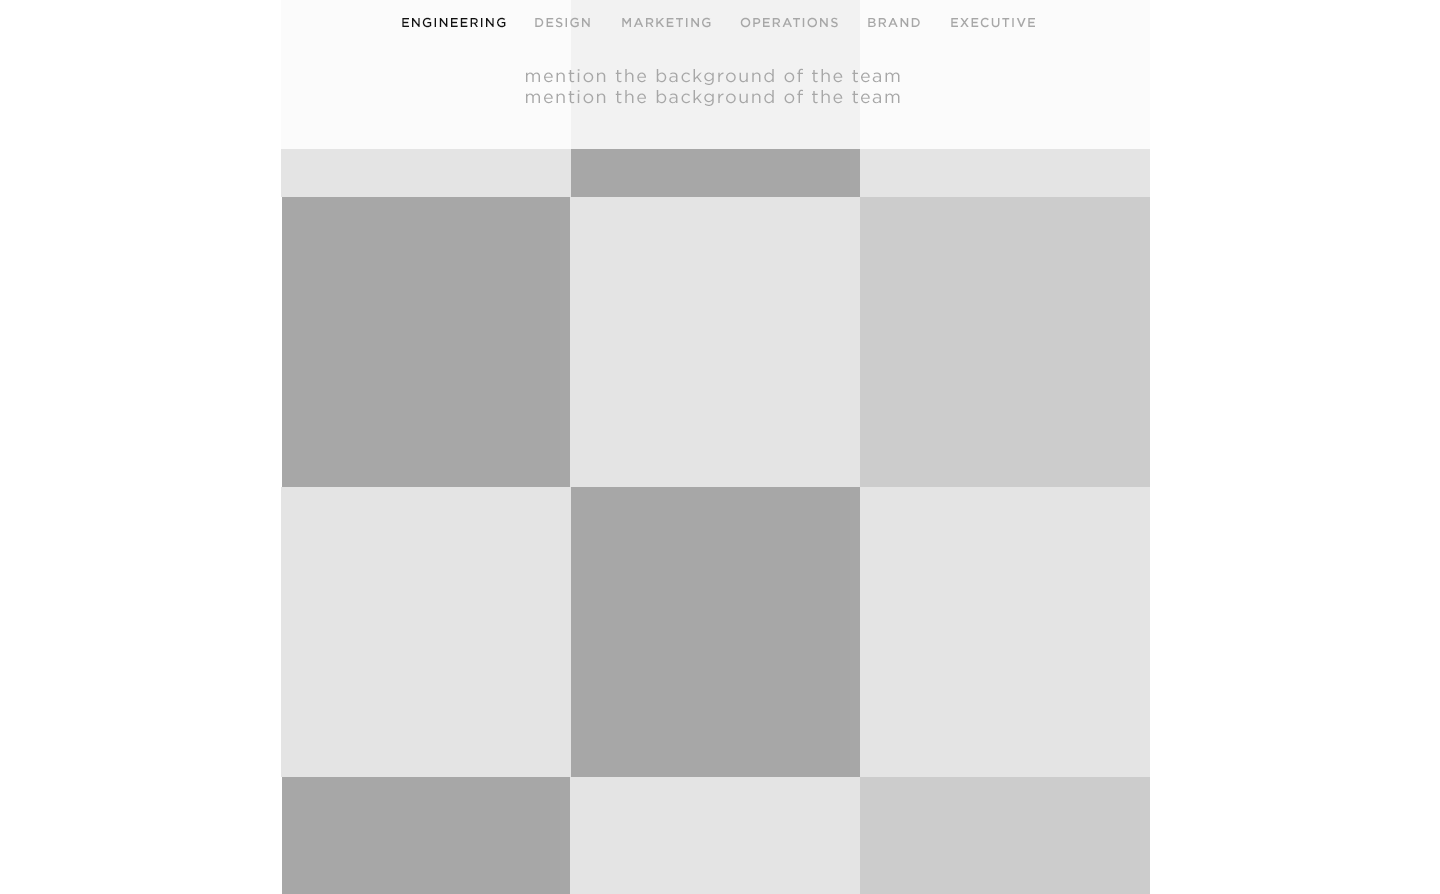
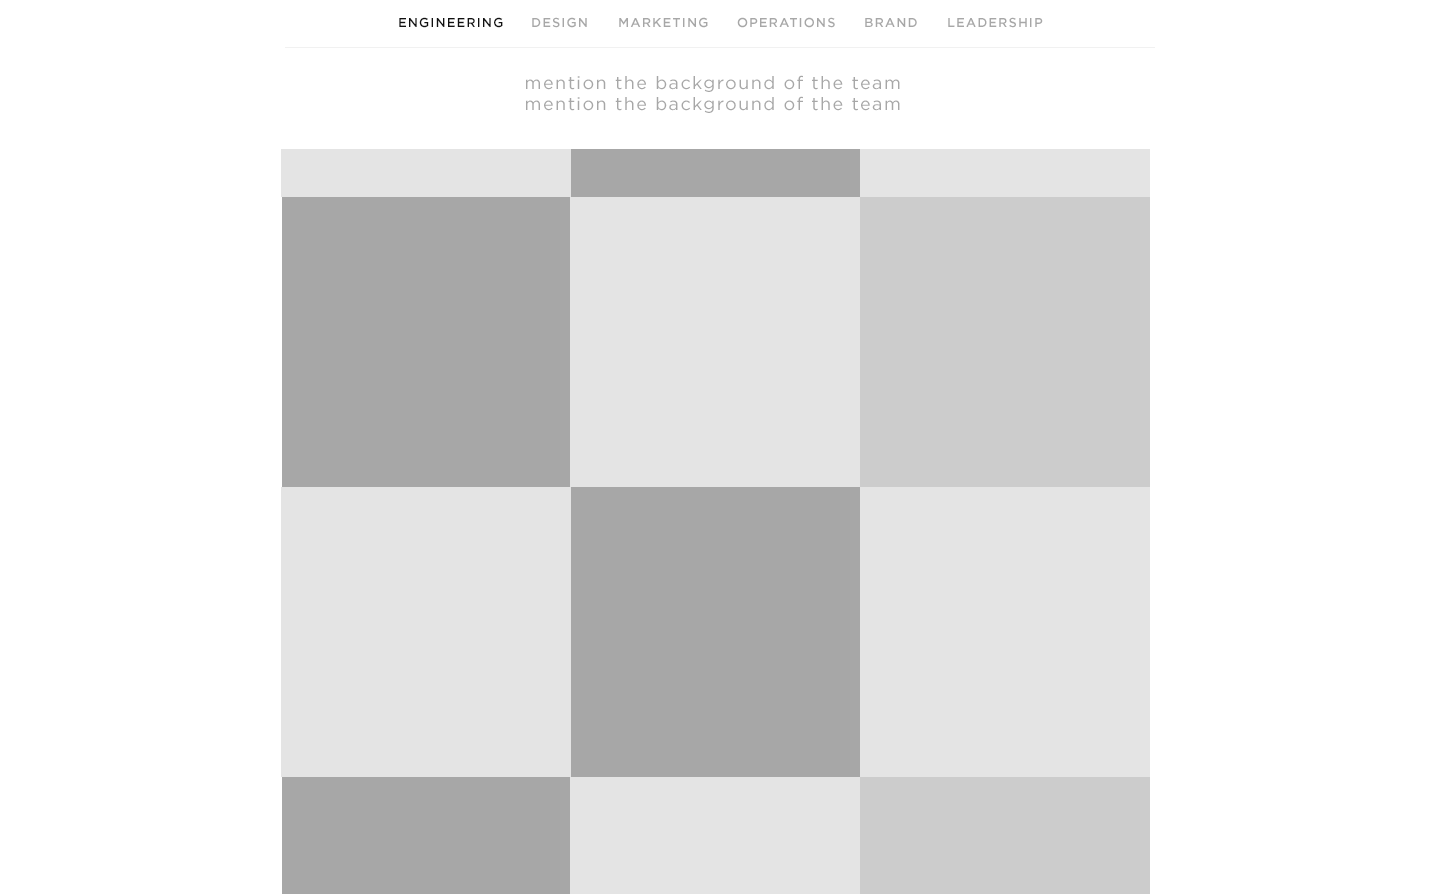
team writeup

diff --git a/_site/jekyll/update/2015/04/29/team.html b/_site/jekyll/update/2015/04/29/team.html
@@ -80,7 +80,70 @@
 
 <hr />
 
-<p><img src="http://hivemind.works/shopspring/img/team/team-head-2.png" alt="team head" /></p>
+<h1 id="header">Header</h1>
+
+<p>I didn’t want to go the typical route with a large splash image, which I think is overdone, often stagnant, and competes with the copy for attention.</p>
+
+<p>To draw people to interact with the page, I’d like to add animations to the icons, similar to the old <a href="http://www.thestarvedblog.co.za/whud-up/badass-blog-formfiftyfive-com/">Form Fifty Five header</a>.</p>
+
+<p>Though I tested other layouts, I think 1 column centered approach works best for this typ of page. It degrades most elegantly on mobile, maintains a singular focus, and allows the grid to stay above the fold.</p>
+
+<p><img src="/shopspring/img/team/team-2.png" alt="team head" /></p>
+
+<hr />
+
+<h1 id="grid">Grid</h1>
+
+<p>I spent much of my time working out the besst way to display the team members. Though the list Spring uses currently works well from desktop to mobile, the affordances for interaction and play a grid provides seemed more valuable than a list to me.</p>
+
+<p>I then began playing with the ways the grid could be executed.</p>
+
+<p>The department sub-nav would remain sticky at the top of the page, and if a specific team was selected, a blurb on that teams resposibilities would appear directly beneath the sub-nav.</p>
+
+<p>If we use an orthoganal grid of images, my first idea for a ‘finger’ was to mimic the brady bunch title sequence, having the team members follow the mouse around. I know I could pull this off in a perfomant way, but it would mean that each team member would need 6 pictures (looking straight, up, up-left, left, down-left, down. up-left, left, and down-left could be mirrored). I’d be happy to make a prototype using headshots of myself, if you’re interested in pursuing this.</p>
+
+<p><img src="/shopspring/img/team/team-grid-info.png" alt="team head" /></p>
+
+<p>My second idea was to keep the typical grid, but swap the squares for circles, then add an interaction that draws people to explore, like <a href="http://v2.desandro.com/articles/undulate/">this</a>.</p>
+
+<p><img src="/shopspring/img/team/team-circles-grid.png" alt="team head" /></p>
+
+<p><img src="/shopspring/img/team/team-circles-grid-hover.png" alt="team head" /></p>
+
+<hr />
+
+<h1 id="footer">Footer</h1>
+
+<p>I’m currently working on the footer, but I’d like your input.</p>
+
+<p>What should be the reward for scrolling to the bottom of the team page? Another call out to see open positions? or maybe here is the place for the full page splash image, with a more prominent “Life at Spring” button.</p>
+
+<hr />
+
+<h1 id="implementation">Implementation</h1>
+
+<p>You can see the changes to the implementation <a href="/shopspring/iterations/team-1.html">here</a></p>
+
+<h4 id="progress">Progress</h4>
+<ul>
+  <li>More button</li>
+  <li>Account buttons</li>
+  <li>Styleguide refinement</li>
+</ul>
+
+<hr />
+
+<h1 id="next">Next</h1>
+
+<ul>
+  <li>team page footer</li>
+  <li>implement header icons</li>
+  <li>implement interactive grid</li>
+  <li>
+    <p>add real content to team page</p>
+  </li>
+  <li>begin careers/engineering page</li>
+</ul>
 
 
           </article>

diff --git a/_site/css/main.css b/_site/css/main.css
@@ -420,10 +420,11 @@ ul.post-list {
 
 header.post-header {
   padding: 40px 0px;
-  color: #e4e4e4;
+  color: #a7a7a7;
   text-transform: uppercase;
   font-weight: 900;
-  margin-bottom: 2em; }
+  margin-bottom: 2em;
+  box-shadow: none; }
 
 .post-content {
   font-weight: bold;

diff --git a/_sass/_theme.scss b/_sass/_theme.scss
@@ -245,10 +245,11 @@ margin: 3em 0em 6em;
 
 header.post-header {
   padding: 40px 0px;
-  color: #e4e4e4;
+  color: $gray;
   text-transform: uppercase;
   font-weight: 900;
   margin-bottom: 2em;
+  box-shadow: none;
 }
 
 .post-content { 

diff --git a/_posts/2015-04-27-team.md b/_posts/2015-04-27-team.md
@@ -33,7 +33,64 @@ With these goals and use cases in mind, I made a list of elements that would hel
 
 ---
 
-![team head]({{ site.url }}/img/team/team-head-2.png)
+# Header
+
+I didn't want to go the typical route with a large splash image, which I think is overdone, often stagnant, and competes with the copy for attention.
+
+To draw people to interact with the page, I'd like to add animations to the icons, similar to the old [Form Fifty Five header](http://www.thestarvedblog.co.za/whud-up/badass-blog-formfiftyfive-com/).
+
+Though I tested other layouts, I think 1 column centered approach works best for this typ of page. It degrades most elegantly on mobile, maintains a singular focus, and allows the grid to stay above the fold.
+
+![team head]({{ site.baseurl }}/img/team/team-2.png)
+
+---
+
+# Grid
+
+I spent much of my time working out the besst way to display the team members. Though the list Spring uses currently works well from desktop to mobile, the affordances for interaction and play a grid provides seemed more valuable than a list to me.
+
+I then began playing with the ways the grid could be executed.
+
+The department sub-nav would remain sticky at the top of the page, and if a specific team was selected, a blurb on that teams resposibilities would appear directly beneath the sub-nav.
+
+If we use an orthoganal grid of images, my first idea for a 'finger' was to mimic the brady bunch title sequence, having the team members follow the mouse around. I know I could pull this off in a perfomant way, but it would mean that each team member would need 6 pictures (looking straight, up, up-left, left, down-left, down. up-left, left, and down-left could be mirrored). I'd be happy to make a prototype using headshots of myself, if you're interested in pursuing this.
+
+![team head]({{ site.baseurl }}/img/team/team-grid-info.png)
+
+My second idea was to keep the typical grid, but swap the squares for circles, then add an interaction that draws people to explore, like [this](http://v2.desandro.com/articles/undulate/).
+
+![team head]({{ site.baseurl }}/img/team/team-circles-grid.png)
+
+![team head]({{ site.baseurl }}/img/team/team-circles-grid-hover.png)
+
+---
+
+# Footer
+
+I'm currently working on the footer, but I'd like your input.
+
+What should be the reward for scrolling to the bottom of the team page? Another call out to see open positions? or maybe here is the place for the full page splash image, with a more prominent "Life at Spring" button.
+
+---
+
+# Implementation
+
+You can see the changes to the implementation [here]({{ site.baseurl }}/iterations/team-1.html)
+
+####Progress
+- More button
+- Account buttons
+- Styleguide refinement
 
 
+---
+
+# Next
+
+- team page footer
+- implement header icons
+- implement interactive grid
+- add real content to team page
+
+- begin careers/engineering page
 
